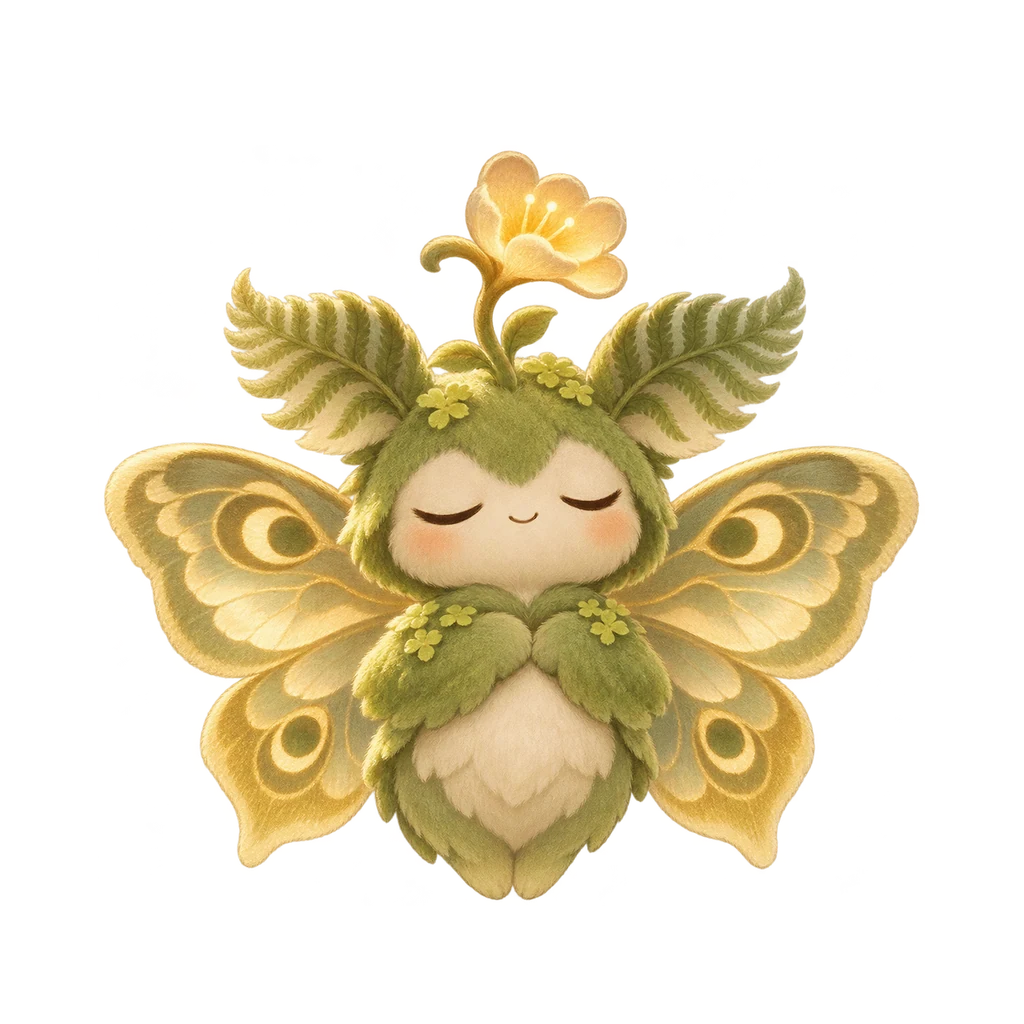
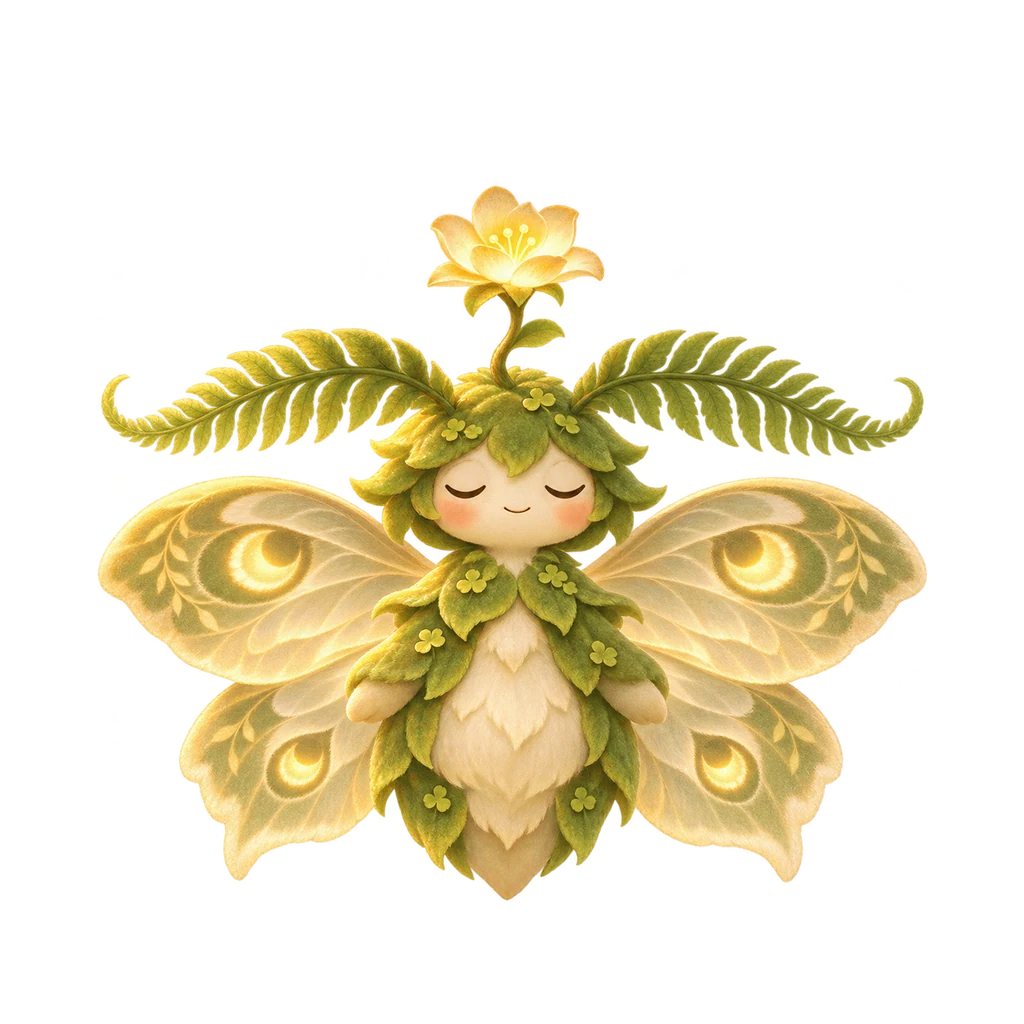
Use corrected Lanternmoss blink art and re-enable its blink
Starwick's re-uploaded blink is unchanged from the previous one, so its
blink stays off until a corrected file arrives.

Claude-Session: https://claude.ai/code/session_01EaXrjpdRA865mRVtS6vp6n

diff --git a/src/assets/manifest.ts b/src/assets/manifest.ts
@@ -110,7 +110,7 @@ export const FORM_META: Record<
   dewdrop: { scale: 0.6, anchorY: 900 },
   sprig: { scale: 0.78, anchorY: 900 },
   fernlet: { scale: 1.0, anchorY: 900 },
-  lanternmoss: { scale: 1.05, anchorY: 900, hover: true, blinkArt: false },
+  lanternmoss: { scale: 1.05, anchorY: 900, hover: true },
   burrowbun: { scale: 1.0, anchorY: 900 },
   mirefuzz: { scale: 0.98, anchorY: 900 },
   starwick: { scale: 1.05, anchorY: 900, hover: true, blinkArt: false },
